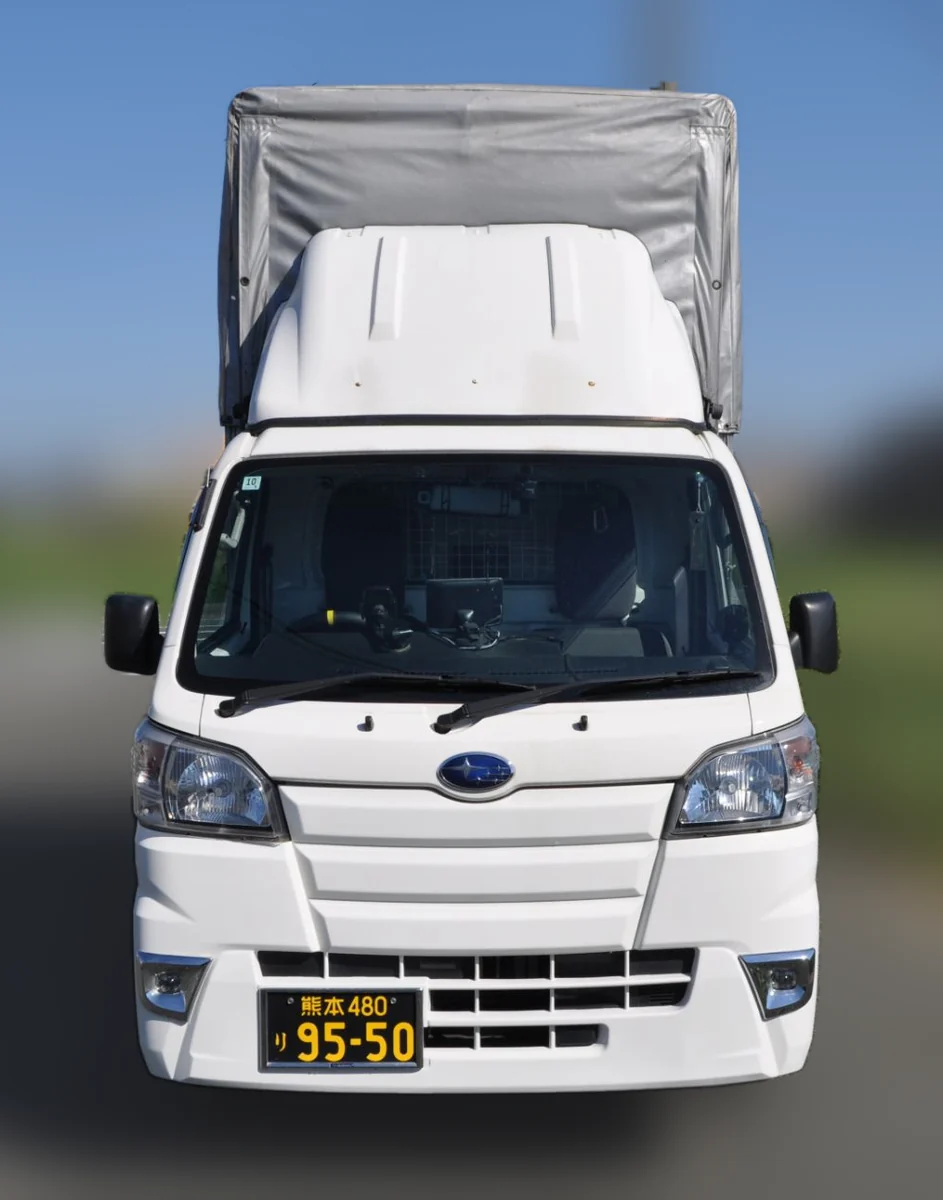
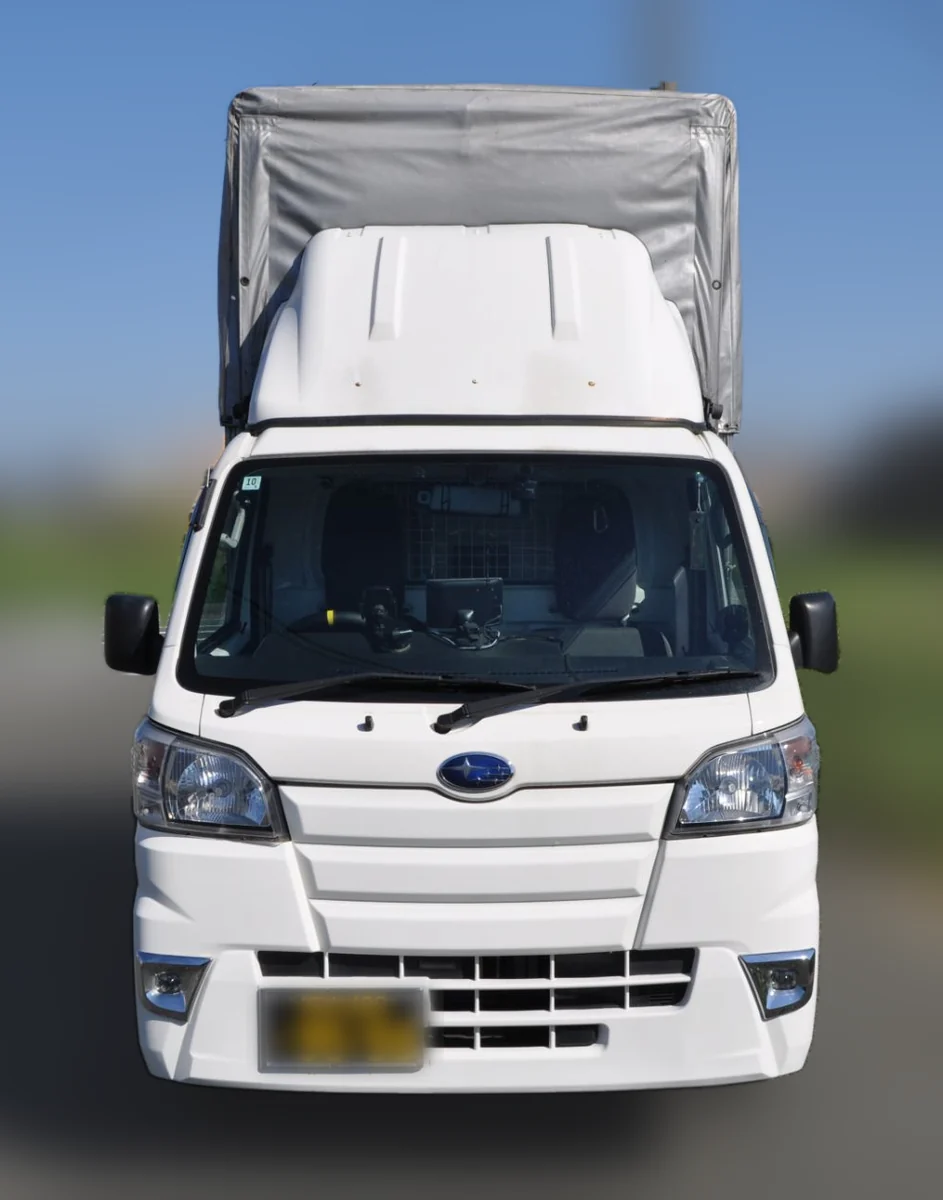
車両写真のナンバープレートをぼかし、荷室高さの矢印を天井の青いパネルまでに修正
Claude-Session: https://claude.ai/code/session_01UJZkWmKuVsCKefuCYgREub

Changed region(s): [[0.2768, 0.8017, 0.4613, 0.8942]]

diff --git a/company.html b/company.html
@@ -206,7 +206,7 @@
         <svg viewBox="-110 -97 991 1325" aria-hidden="true" style="position:absolute;inset:0;width:100%;height:100%;overflow:visible">
           <defs><marker id="ah" viewBox="0 0 10 10" refX="5" refY="5" markerWidth="4" markerHeight="4" orient="auto-start-reverse"><path d="M0 0L10 5L0 10z" fill="#f7d117"/></marker></defs>
           <g stroke="#f7d117" stroke-width="9" stroke-linecap="round" marker-start="url(#ah)" marker-end="url(#ah)">
-            <line x1="690" y1="962" x2="690" y2="152"/>
+            <line x1="690" y1="962" x2="690" y2="160"/>
             <line x1="112" y1="962" x2="742" y2="962"/>
           </g>
           <g font-family="Barlow Condensed, sans-serif" font-weight="700" fill="#f7d117" stroke="rgba(0,0,0,.55)" stroke-width="7" paint-order="stroke">
